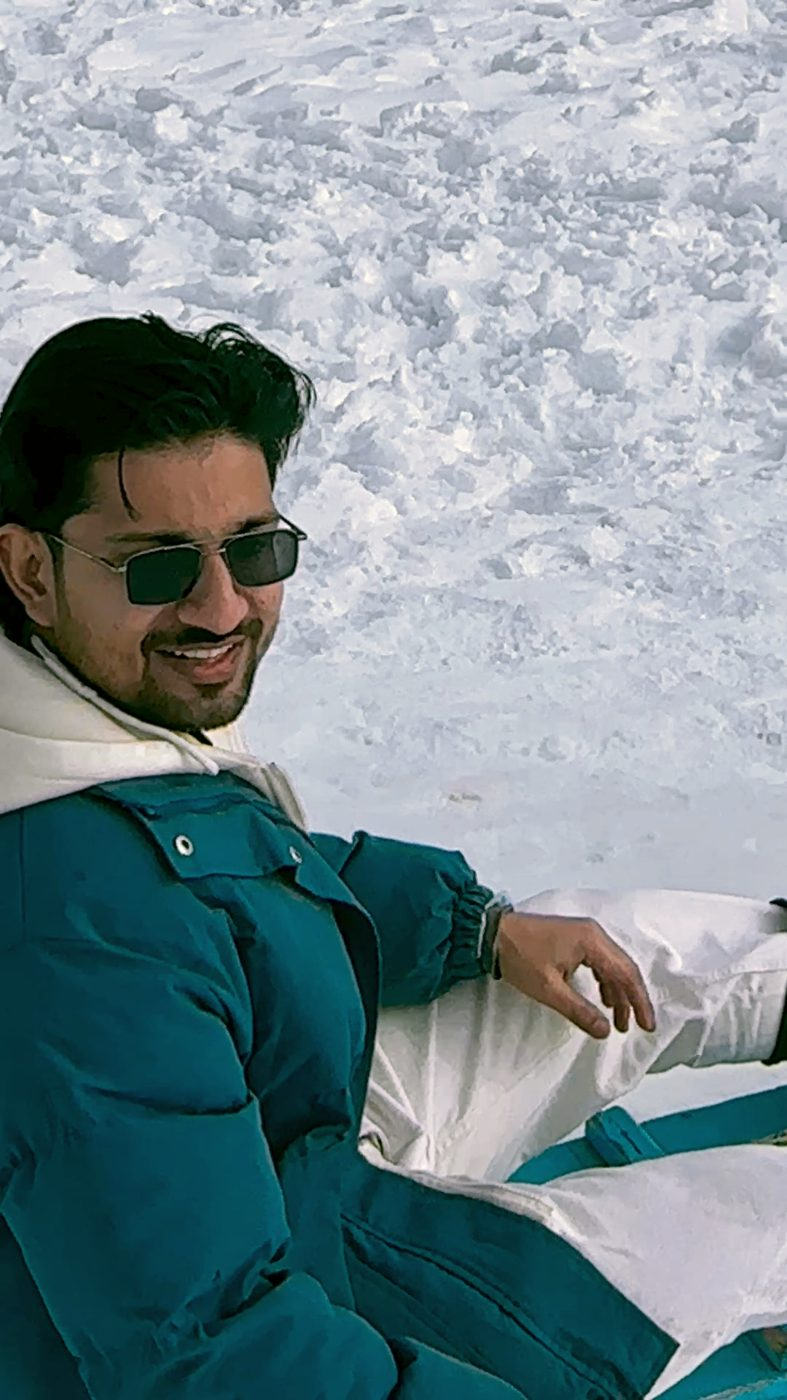
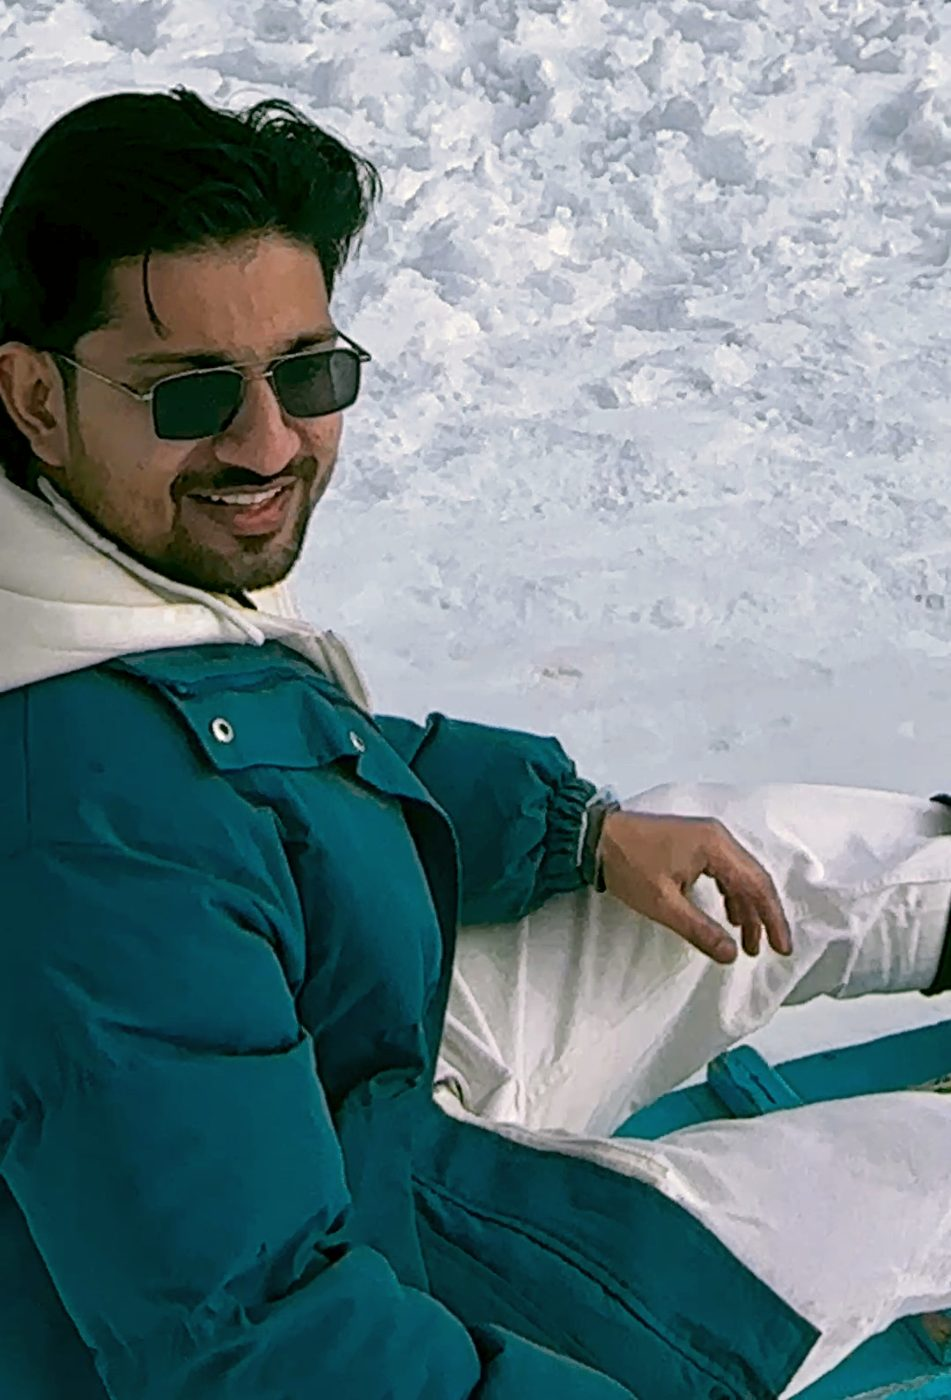
Move water scene to its own /uncharted page; fix photo 2 crop
- ShipScene (ocean + ship) is no longer stacked under the hero on the
  home page; it is now the /uncharted route with its own title/meta and
  a navbar link. Home is the hero alone.
- Photo 2 had ~330px of empty snow above the subject, so it scaled down
  and the head sat cut high in the frame. Re-crop to the subject and
  switch the showcase images from object-cover to object-contain/top so
  nothing can be cropped away.

diff --git a/src/App.jsx b/src/App.jsx
@@ -17,16 +17,12 @@ import Contact from './components/sections/Contact'
 import Footer from './components/sections/Footer'
 
 function HomePage() {
-  return (
-    <>
-      <Hero />
-      <ShipScene />
-    </>
-  )
+  return <Hero />
 }
 
 const PAGES = {
   '/': HomePage,
+  '/uncharted': ShipScene,
   '/about': About,
   '/skills': Skills,
   '/services': Services,
@@ -41,6 +37,10 @@ const PAGE_METADATA = {
   '/': {
     title: 'Mohd Wasif | Performance Marketing & Web Development',
     description: 'Portfolio of Mohd Wasif: performance marketing, technical SEO, paid ads, and modern web development.',
+  },
+  '/uncharted': {
+    title: 'Uncharted Waters | Mohd Wasif',
+    description: 'An interactive 3D voyage — navigating paid ads, SEO, and modern web development.',
   },
   '/about': {
     title: 'About Mohd Wasif | Digital Growth Specialist',

diff --git a/src/components/sections/Hero.jsx b/src/components/sections/Hero.jsx
@@ -302,7 +302,7 @@ export default function Hero() {
                     src={src}
                     alt=""
                     loading="lazy"
-                    className="max-h-full w-auto max-w-full rounded-3xl object-cover ring-1 ring-[#a07d33]/25 shadow-[0_30px_80px_-25px_rgba(28,23,16,0.45)]"
+                    className="max-h-full w-auto max-w-full rounded-3xl object-contain object-top ring-1 ring-[#a07d33]/25 shadow-[0_30px_80px_-25px_rgba(28,23,16,0.45)]"
                   />
                 </div>
               )

diff --git a/src/components/navbar/Navbar.jsx b/src/components/navbar/Navbar.jsx
@@ -5,6 +5,7 @@ import { contact } from '../../content/contact'
 
 const NAV_ITEMS = [
   { label: 'Home', href: '/' },
+  { label: 'Uncharted', href: '/uncharted' },
   { label: 'Journey', href: '/about' },
   { label: 'Skills', href: '/skills' },
   { label: 'Services', href: '/services' },
